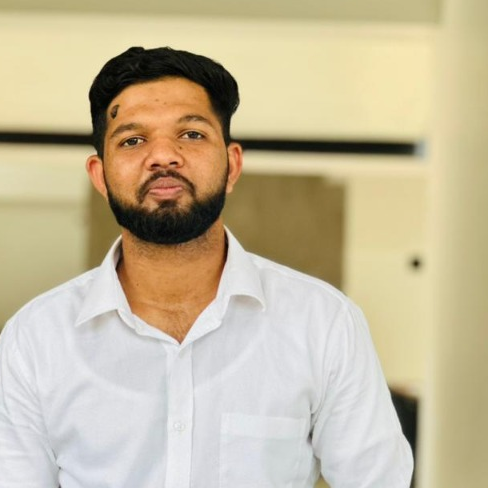
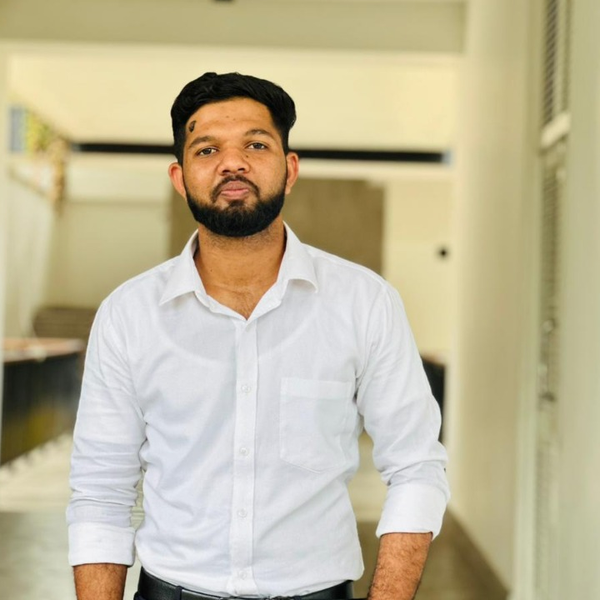
fix: cache-bust portrait image to force browser to load real photo

diff --git a/my_portfolio_website/frontend/src/app/about/page.tsx b/my_portfolio_website/frontend/src/app/about/page.tsx
@@ -119,7 +119,7 @@ export default async function AboutPage() {
               <div className="relative shrink-0 p-1.5">
                 <div className="relative w-32 h-32 sm:w-36 sm:h-36 md:w-40 md:h-40 rounded-3xl overflow-hidden ring-2 ring-indigo-500/70 shadow-[0_0_35px_rgba(99,102,241,0.35)] bg-slate-900">
                   <Image
-                    src="/brand/mohamed-hajith-portrait.png"
+                    src="/brand/mohamed-hajith.png?v=3"
                     alt="Mohamed Hajith"
                     width={160}
                     height={160}

diff --git a/my_portfolio_website/frontend/src/components/sections/bio-section.tsx b/my_portfolio_website/frontend/src/components/sections/bio-section.tsx
@@ -59,7 +59,7 @@ export function BioSection() {
               
               <div className="relative w-32 h-32 sm:w-36 sm:h-36 md:w-40 md:h-40 rounded-3xl overflow-hidden ring-2 ring-indigo-500/70 shadow-[0_0_35px_rgba(99,102,241,0.35)] bg-slate-900">
                 <Image
-                  src="/brand/mohamed-hajith-portrait.png"
+                  src="/brand/mohamed-hajith.png?v=3"
                   alt="Mohamed Hajith"
                   width={160}
                   height={160}

diff --git a/my_portfolio_website/frontend/src/lib/identity.ts b/my_portfolio_website/frontend/src/lib/identity.ts
@@ -16,6 +16,6 @@ export const PERSONAL_IDENTITY = {
   availability: "Open to software engineering internships, junior development opportunities, and selected freelance projects.",
   githubUsername: "HajithMohamed",
   githubUrl: "https://github.com/HajithMohamed",
-  avatarUrl: "/brand/mohamed-hajith-avatar.png",
-  portraitUrl: "/brand/mohamed-hajith-portrait.png",
+  avatarUrl: "/brand/mohamed-hajith-avatar.png?v=3",
+  portraitUrl: "/brand/mohamed-hajith.png?v=3",
 } as const;
